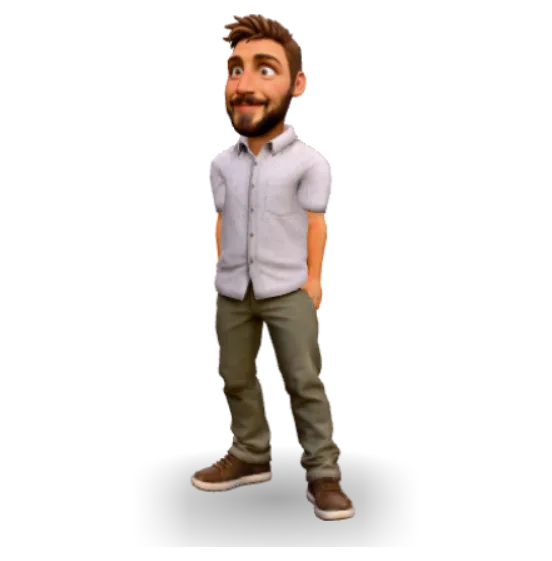
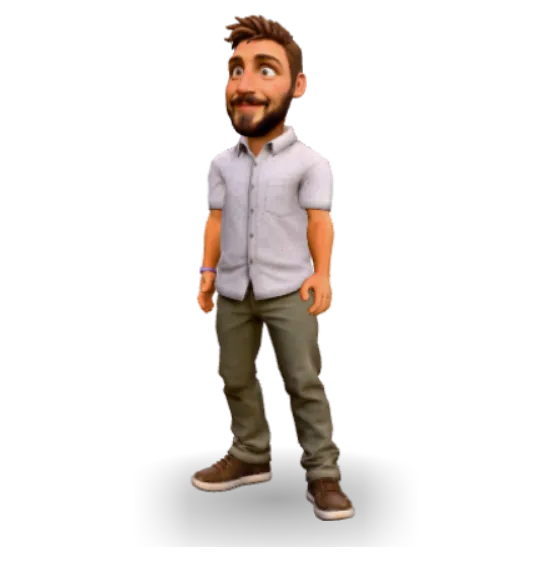
Line-up: along the line, then out, then a wave; Jack's arms out
A picked character walks along the line to the middle first and only then
steps out toward us (and steps back into the line before walking along
it), then waves if they have a wave. Jack wears Colin's clips, whose wider
shoulders hung his arms into his sides: `arms` lays a small pose fix
over every clip (upper arms out and forward, forearms take some back).

Claude-Session: https://claude.ai/code/session_01McRD2PT414eMdAMdSUCz7Q

diff --git a/site/app.js b/site/app.js
@@ -1,4 +1,4 @@
-import { SITE, SECTIONS, PLAY, ASSETS, SCRIPTS, TUTORIALS, SUPPORT, SOCIALS, WEB, STUDIOS, MOTION, WORKBENCH, WRITING, GUMROAD, SONGS, SFX, ABOUT, PRINTS } from './content.js?v=409c73f6';
+import { SITE, SECTIONS, PLAY, ASSETS, SCRIPTS, TUTORIALS, SUPPORT, SOCIALS, WEB, STUDIOS, MOTION, WORKBENCH, WRITING, GUMROAD, SONGS, SFX, ABOUT, PRINTS } from './content.js?v=7d66d254';
 import { onAccent, nextPreset, randomAccent, initTheme, setTheme, sectionColours } from './palette.js?v=7fa72879';
 
 const BASE = window.BASE || '/';
@@ -155,8 +155,8 @@ function charPicker(root, { home = false } = {}) {
     if (grp && panel.previousElementSibling !== grp) grp.after(panel);   // their details open right under their game's row
     viewer?.destroy(); viewer = null;
     panel.innerHTML = it || !home ? charDetail(it) : ''; panel.classList.toggle('on', !!it);
-    if (it) import('./viewer.js?v=94587ef6').then(m => { if (CHARPICK.show === show && panel.querySelector('#char-viewer'))
-      viewer = m.mountViewer(panel.querySelector('#char-viewer'), { url: it.glb, prefer: it.prefer, anim: it.anim, borrow: it.borrow }); });
+    if (it) import('./viewer.js?v=4742e21a').then(m => { if (CHARPICK.show === show && panel.querySelector('#char-viewer'))
+      viewer = m.mountViewer(panel.querySelector('#char-viewer'), { url: it.glb, prefer: it.prefer, anim: it.anim, borrow: it.borrow, arms: it.arms }); });
     faces.forEach(b => b.classList.toggle('on', b.dataset.char === slug));
   };
   CHARPICK.show = show;
@@ -256,7 +256,7 @@ const PAGES = {
       const pr = PRINTS.find(x => x.slug === slug);
       if (pr) {
         const ch = pr.char && ASSETS.find(x => x.slug === pr.char);
-        after = () => import('./viewer.js?v=94587ef6').then(m => { mounted = m.mountViewer($('#viewer'), { url: pr.glb, print: pr }); });
+        after = () => import('./viewer.js?v=4742e21a').then(m => { mounted = m.mountViewer($('#viewer'), { url: pr.glb, print: pr }); });
         return `<div class="wrap">${crumbs(link('characters', 'Characters'), esc(pr.title))}
           <h2 class="title">${esc(pr.title)}</h2>
           <p class="lede">3D-print statue. ${esc(pr.blurb)}${ch ? ` The game version is ${link('characters/' + ch.slug, esc(ch.title))}.` : ''}</p>
@@ -266,8 +266,8 @@ const PAGES = {
       const it = ASSETS.find(x => x.slug === slug);
       if (!it) return missing();
       const pr2 = PRINTS.find(x => x.char === it.slug);
-      after = () => import('./viewer.js?v=94587ef6').then(m => {
-        const a = m.mountViewer($('#viewer'), { url: it.glb, prefer: it.prefer, anim: it.anim, borrow: it.borrow });
+      after = () => import('./viewer.js?v=4742e21a').then(m => {
+        const a = m.mountViewer($('#viewer'), { url: it.glb, prefer: it.prefer, anim: it.anim, borrow: it.borrow, arms: it.arms });
         const b = pr2 && m.mountViewer($('#viewer-print'), { url: pr2.glb, print: pr2 });
         mounted = { destroy() { a.destroy(); b?.destroy(); } };
       });
@@ -613,8 +613,8 @@ function castSides() {
 const CASTWARM = { n: 0 };
 function warmCast(n = Infinity) {
   if (CASTWARM.n >= n) return; const from = CASTWARM.n; CASTWARM.n = n;
-  import('./lineup.js?v=ad6a0996').catch(() => {});
-  import('./rig.js?v=6f672394').then(({ prefetchGLB }) => {
+  import('./lineup.js?v=a8f06bab').catch(() => {});
+  import('./rig.js?v=e9487a7b').then(({ prefetchGLB }) => {
     for (const c of castSides().near.slice(from, n)) { prefetchGLB(c.glb).catch(() => {}); if (c.anim) prefetchGLB(c.anim).catch(() => {}); }
   }).catch(() => {});
 }
@@ -692,7 +692,7 @@ function backdrop(key) {
   WEAVE?.visible(!own || own === 'lineup');                         // the line-up stands in front of a dimmed weave
   WEAVE?.canvas.classList.toggle('dim', own === 'lineup');
   if (own === 'lineup' && !LINEUP && !lineupLoading && GLORB.ready)
-    lineupLoading = import('./lineup.js?v=ad6a0996').then(m => {
+    lineupLoading = import('./lineup.js?v=a8f06bab').then(m => {
       /* COLIN IN THE MIDDLE, and the cast dealt out from him in their order -- one to his right, one to
          his left, the next a step further out each side -- so the first ones listed (the originals, with
          their own animations) stand round him and the borrowed-animation crowd fills the ends */
@@ -1272,7 +1272,7 @@ if (wantIntro && !/[?&]walk=side/.test(location.search)) {
   addEventListener('scroll', () => { if (!document.getElementById('intro')) rise(0, 500); }, { passive: true });   // never strand him low
 }
 const intro = wantIntro
-  ? import('./intro.js?v=d1bca10d').then(m => m.playIntro({ build: BUILD, role: SITE.role, bg: css('--bg'), glorb: () => GLORB.api, dotK: GLORB_DOT }))
+  ? import('./intro.js?v=175536db').then(m => m.playIntro({ build: BUILD, role: SITE.role, bg: css('--bg'), glorb: () => GLORB.api, dotK: GLORB_DOT }))
       .catch(err => console.warn('intro', err))
       .finally(() => { const t = setInterval(() => { if (!document.getElementById('intro')) { clearInterval(t); setTimeout(() => rise(), 2500); } }, 400); })   // (if the handoff never comes, rise anyway, once the intro has gone)
   : Promise.resolve();
@@ -1292,5 +1292,5 @@ const ITEMS = [
   ...WRITING.map(w => ({ title: w.title, path: 'writing/' + w.slug })),
 ];
 if (!q.has('nocolin')) intro.then(() => new Promise(r => setTimeout(r, 900))).then(() =>
-  import('./colin.js?v=fef2126f').then(m => { colin = m.createMiniColin({ go, known: KNOWN, items: ITEMS, pageOf: () => '/' + route().join('/') }); colinWait.forEach(f => f(colin)); }))
+  import('./colin.js?v=2ee500f0').then(m => { colin = m.createMiniColin({ go, known: KNOWN, items: ITEMS, pageOf: () => '/' + route().join('/') }); colinWait.forEach(f => f(colin)); }))
   .catch(err => console.warn('mini colin unavailable', err));

diff --git a/site/lineup.js b/site/lineup.js
@@ -11,7 +11,7 @@
 //     each, and from where the camera stands nobody can tell;
 //   * it only renders while the Characters page is showing and on screen.
 import * as THREE from '../vendor/three.module.min.js';
-import { loadCharacter, skinnedBounds, pickClip, play } from './rig.js?v=6f672394';
+import { loadCharacter, skinnedBounds, pickClip, play } from './rig.js?v=e9487a7b';
 
 // back: how far behind Colin the line stands (they read smaller, so more of them fit); forward: where the
 // picked one walks out to, in front of him
@@ -126,7 +126,7 @@ export function createLineup(host, chars, { onPick = () => {}, colin = null } = 
       if (S.dead) return;
       if (s.c.colin) { s.ghost = true; s.loaded = true; s.mixer = { update() {} }; stageLeft(s, 0); return; }
       try {
-        const ch = await loadCharacter(new URL('../' + s.c.glb, import.meta.url).href, null, { anim: s.c.anim && new URL('../' + s.c.anim, import.meta.url).href, borrow: s.c.borrow });
+        const ch = await loadCharacter(new URL('../' + s.c.glb, import.meta.url).href, null, { anim: s.c.anim && new URL('../' + s.c.anim, import.meta.url).href, borrow: s.c.borrow, arms: s.c.arms });
         if (s.c.colin) {                                           // Colin's own file: donor heads out, his face shape on
           const loose = []; let sk = 0; ch.model.traverse(o => { if (o.isSkinnedMesh) sk++; else if (o.isMesh) loose.push(o); });
           if (sk) loose.forEach(o => o.removeFromParent());
@@ -142,7 +142,8 @@ export function createLineup(host, chars, { onPick = () => {}, colin = null } = 
           run: has(/^run_fwd$|run_fwd|^running$|^run$|drunk_run_forward|standing_run_forward|run_forward/i),
           walk: has(/walk_fwd_neutral|^walk_fwd|^walking$|^walk$|standing_walk_forward|walk_forward/i) || has(/^(?!.*(back|left|right|strafe)).*walk/i),
           air: has(/floating|in_air|falling_idle|jump_going_up|air|fall/i),
-          land: has(/landing_soft|^landing$|landing|hard_landing/i) };
+          land: has(/landing_soft|^landing$|landing|hard_landing/i),
+          wave: has(/^waving$|wave|greet|salute/i) };
         // measured once the idle is FULLY in: the clip fades in over a quarter second, and at
         // 0.01s he is still in his bind pose -- which for Zorp sits 0.66 m lower than his idle,
         // so he was set on the floor by a pose he never stands in, and floated
@@ -180,8 +181,15 @@ export function createLineup(host, chars, { onPick = () => {}, colin = null } = 
     } else if (s.state === 'land') {
       s.landT -= dt; if (s.landT <= 0) s.state = 'idle';
     } else {
-      const dx = s.tx - s.x, dz = s.tz - s.z, d = Math.hypot(dx, dz);
+      /* ONE AXIS AT A TIME, so a step out reads as taking centre stage: someone called forward
+         walks along the line to the middle FIRST and only then steps out toward us; someone going
+         back steps back into the line first and then walks along it. (Both at once was a diagonal
+         that started out of the line before they had got anywhere near the middle.) */
+      let dx = s.tx - s.x, dz = s.tz - s.z;
+      if (Math.abs(dx) > 0.06 && Math.abs(dz) > 0.06) { if (dz > 0) dz = 0; else dx = 0; }
+      const d = Math.hypot(dx, dz);
       if (d > 0.06) {
+        s.waved = false; s.waveT = 0;
         if (s.state !== 'walk') { s.state = 'walk'; clip(s, 'walk'); }
         const v = Math.min(d * 3, d > 1.6 && s.clips.run ? 2.6 : 1.4);   // one pace for everyone, so the line moves as a line
         if (d > 1.6 && s.clips.run && s.cur !== s.clips.run) clip(s, 'run'); else if (d <= 1.6 && s.cur === s.clips.run) clip(s, 'walk');
@@ -189,6 +197,14 @@ export function createLineup(host, chars, { onPick = () => {}, colin = null } = 
         s.wantYaw = Math.atan2(dx, dz);
       } else {
         if (s.state !== 'idle') { s.state = 'idle'; clip(s, 'idle'); }
+        // ...and once out front, a wave: they have just taken centre stage
+        if (S.sel === s.c.slug && !s.waved && !s.ghost && s.state === 'idle') {
+          s.waved = true;
+          if (s.clips.wave) { s.cur = s.clips.wave; play(s.mixer, s.clips.wave, { once: true, fade: 0.25 }); s.waveT = s.clips.wave.duration * 0.92; }
+        }
+        // timed here rather than on the clip's 'finished' event, so a wave cut short by a walk cannot
+        // fire a late switch back to idle on top of the walk
+        if (s.waveT > 0 && (s.waveT -= dt) <= 0) clip(s, 'idle');
         s.wantYaw = s.rest;                                          // back to (nearly) facing us
       }
       let dy = (s.wantYaw ?? 0) - s.yaw; dy = Math.atan2(Math.sin(dy), Math.cos(dy));

diff --git a/site/rig.js b/site/rig.js
@@ -96,8 +96,40 @@ function closeLoop(clip) {
 }
 
 /** Load a character. `onProgress(0..1)` when the server sends a length. `anim`: a file to borrow clips from. */
+/* ARMS OUT, for a body wearing another body's clips. Jack wears Colin's, and Colin's shoulders sit
+   further out than Jack's -- so the same arm rotations hang Jack's arms straight down and a little
+   behind him, into his own sides. `out` swings both upper arms away from the body (degrees, about
+   the body's own forward axis), `fwd` brings them forward (about its left-right axis), and the
+   forearms take back `bend` of the outward swing so the hands still come in toward the hips.
+   Everything is measured off the posed shoulders each frame -- no axis is assumed for the rig. */
+export function armsOut(model, { out = 0, fwd = 0, bend = 0.5 } = {}) {
+  const find = re => { let b = null; model.traverse(o => { if (!b && re.test(o.name)) b = o; }); return b; };
+  const L = find(/LeftArm$/), R = find(/RightArm$/), LF = find(/LeftForeArm$/), RF = find(/RightForeArm$/);
+  const bones = [L, R, LF, RF].filter(Boolean), saved = bones.map(b => b.quaternion.clone());
+  const pl = new THREE.Vector3(), pr = new THREE.Vector3(), left = new THREE.Vector3(), up = new THREE.Vector3(0, 1, 0), f = new THREE.Vector3();
+  const qa = new THREE.Quaternion(), qb = new THREE.Quaternion(), P = new THREE.Quaternion(), rot = new THREE.Quaternion();
+  const turn = (b, axis, deg, axis2, deg2) => {   // world rotation applied to a bone, written back in its parent's frame
+    b.parent.getWorldQuaternion(P);
+    rot.setFromAxisAngle(axis, deg * Math.PI / 180); if (axis2) rot.multiply(qb.setFromAxisAngle(axis2, deg2 * Math.PI / 180));
+    b.quaternion.premultiply(qa.copy(P).invert().multiply(rot).multiply(P));   // local' = P^-1 R P local
+  };
+  return {
+    apply() {
+      if (!L || !R) return;
+      bones.forEach((b, i) => saved[i].copy(b.quaternion));
+      model.updateMatrixWorld(true);
+      L.getWorldPosition(pl); R.getWorldPosition(pr); left.subVectors(pl, pr).normalize();
+      f.crossVectors(left, up).normalize();                  // the way he faces: left x up
+      turn(L, f, out, left, -fwd); turn(R, f, -out, left, -fwd);
+      model.updateMatrixWorld(true);
+      if (LF) turn(LF, f, -out * bend); if (RF) turn(RF, f, out * bend);
+    },
+    undo() { bones.forEach((b, i) => b.quaternion.copy(saved[i])); },
+  };
+}
+
 /** `borrow`: the exact clip names to take from `anim` (default: just an idle, a walk and a run) */
-export async function loadCharacter(url, onProgress, { anim = null, borrow = null } = {}) {
+export async function loadCharacter(url, onProgress, { anim = null, borrow = null, arms = null } = {}) {
   const g = await loadGLTF(url, onProgress);
   const model = g.scene;
   let tris = 0, joints = 0;
@@ -117,6 +149,10 @@ export async function loadCharacter(url, onProgress, { anim = null, borrow = nul
   if (anim && !clips.some(c => /idle/i.test(c.name))) clips = [...await borrowClips(model, anim, borrow).catch(() => []), ...clips];
   clips = clips.map(closeLoop);
   const mixer = new THREE.AnimationMixer(model);
+  if (arms) {   // a pose correction laid over every clip: taken off before the mixer runs, put back after
+    const fix = armsOut(model, arms), up = mixer.update.bind(mixer);
+    mixer.update = dt => { fix.undo(); up(dt); fix.apply(); return mixer; };
+  }
   return { model, clips, mixer, tris: Math.round(tris), joints };
 }
 

diff --git a/site/viewer.js b/site/viewer.js
@@ -3,7 +3,7 @@
 // That last part is the pitch -- a spec sheet you can check, not a claim.
 
 import * as THREE from '../vendor/three.module.min.js';
-import { loadCharacter, skinnedBounds, pickClip, play } from './rig.js?v=6f672394';
+import { loadCharacter, skinnedBounds, pickClip, play } from './rig.js?v=e9487a7b';
 
 function facing(model) {
   const toes = [], v = new THREE.Vector3(), w = new THREE.Vector3(), sum = new THREE.Vector3();
@@ -16,7 +16,7 @@ const pretty = n => n.replace(/[_.]+/g, ' ').replace(/\s+/g, ' ').trim();
 
 // `print` is a STATUE rather than a rig: an STL brought in as a bare mesh (no normals, no
 // material, no clips), so it gets smooth normals, a resin finish, and its size in millimetres.
-export function mountViewer(host, { url, prefer = [], anim = null, borrow = null, print = null }) {
+export function mountViewer(host, { url, prefer = [], anim = null, borrow = null, arms = null, print = null }) {
   host.innerHTML = `
     <div class="viewer-stage"><canvas></canvas>
       <div class="viewer-status">Loading…</div>
@@ -104,7 +104,7 @@ export function mountViewer(host, { url, prefer = [], anim = null, borrow = null
     renderer.dispose();
   }
 
-  loadCharacter(url, p => { status.textContent = `Loading… ${Math.round(p * 100)}%`; }, { anim, borrow }).then(c => {
+  loadCharacter(url, p => { status.textContent = `Loading… ${Math.round(p * 100)}%`; }, { anim, borrow, arms }).then(c => {
     if (dead) return;
     ch = c; turn.add(c.model);
     if (print) c.model.traverse(o => { if (!o.isMesh) return;

diff --git a/site/intro.js b/site/intro.js
@@ -36,7 +36,7 @@ export function playIntro({ build = '', role = '', bg = '#f3e4c6', rim = '#9a1cf
        head projected every frame, so an arm swing is what shoves them. */
     const me = { ok: false, on: false, cv: Object.assign(document.createElement('canvas'), { className: 'intro-me' }) };
     document.body.appendChild(me.cv);   // outside the intro: he keeps walking after it has faded
-    import('./intro-me.js?v=ce3a9fcf').then(m => m.mountMe(me.cv, { bg, mode: DEPTH ? 'depth' : 'side' })).then(api => { if (api) { me.api = api; me.ok = true; } }).catch(() => {});
+    import('./intro-me.js?v=5a0187e4').then(m => m.mountMe(me.cv, { bg, mode: DEPTH ? 'depth' : 'side' })).then(api => { if (api) { me.api = api; me.ok = true; } }).catch(() => {});
     document.body.appendChild(el);
     const cv = el.querySelector('canvas'), g = cv.getContext('2d'), g0 = g;
     /* Depth: a third of the dots are drawn on a layer ABOVE him, so he walks

diff --git a/site/content.js b/site/content.js
@@ -158,6 +158,7 @@ export const ASSETS = [
   // stripped copy of Colin (bones + clips, no mesh: models/assets/donors, from Zap 'n Clancy's `npm run donor`)
   { slug: 'jack', h: 1.78, title: 'Jack', from: "Zap 'n Clancy", glb: 'models/assets/jack.glb', anim: 'models/assets/donors/colin_anims.glb', mb: 0.3,
     borrow: ['idle_neutral', 'walk_fwd_neutral', 'run_fwd', 'walk_fwd_swagger', 'waving', 'idle_sad_kick', 'dance_moonwalk', 'dance_hiphop_01', 'dance_wiggle_feet', 'jump_going_up', 'landing_roll'],
+    arms: { out: 9, fwd: 6, bend: 0.4 },   // Colin's shoulders are wider: his clips hang Jack's arms into his sides
     tris: 12468, joints: 66, clips: 0, prefer: ['idle_neutral'], notes: ['Modelled on a friend', 'Wears Colin\'s animations, retargeted at load', 'Draco + WebP'] },
   // Plutopia
   { slug: 'zorp', h: 1.45, title: 'Zorp', from: 'Plutopia', also: ['Shredworld'], glb: 'models/assets/alien_orange.glb', mb: 2.3,

diff --git a/site/intro-me.js b/site/intro-me.js
@@ -4,7 +4,7 @@
 // particles can be shoved out of his way. When he has walked off the right he
 // takes his canvas with him.
 import * as THREE from '../vendor/three.module.min.js';
-import { loadCharacter, skinnedBounds, pickClip, play } from './rig.js?v=6f672394';
+import { loadCharacter, skinnedBounds, pickClip, play } from './rig.js?v=e9487a7b';
 
 export async function mountMe(cv, { bg = '#f3e4c6', mode = 'depth' } = {}) {
   const c = await loadCharacter(new URL('../models/colin.glb', import.meta.url).href);

diff --git a/lab/lab.js b/lab/lab.js
@@ -8,7 +8,7 @@
 import * as THREE from '../vendor/three.module.min.js';
 import { createSwarm } from '../site/swarm.js?v=a192b303';
 import { OBJECTS, fit, sampleSurface, sampleText, sampleSkinned } from '../site/shapes.js?v=aac1b012';
-import { loadCharacter, pickClip, play } from '../site/rig.js?v=6f672394';
+import { loadCharacter, pickClip, play } from '../site/rig.js?v=e9487a7b';
 import { onAccent, oklchHex } from '../site/palette.js?v=7fa72879';
 
 const SLIDES = [

diff --git a/site/colin.js b/site/colin.js
@@ -13,7 +13,7 @@
 // here, the page moves at once, and he talks about it while it does.
 
 import * as THREE from '../vendor/three.module.min.js';
-import { loadCharacter, skinnedBounds, pickClip, play } from './rig.js?v=6f672394';
+import { loadCharacter, skinnedBounds, pickClip, play } from './rig.js?v=e9487a7b';
 import { mouth, speakBuffer, hush, VISEME, JAW } from './speech.js?v=d7e94a3c';
 
 export const BRAIN = 'https://orb-brain.colinwillowtree.workers.dev';

diff --git a/index.html b/index.html
@@ -52,6 +52,6 @@
   <main id="view" tabindex="-1"></main>
 
   <noscript><p style="padding:2rem">This site needs JavaScript. The <a href="classic.html">previous portfolio</a> works without it.</p></noscript>
-  <script type="module" src="site/app.js?v=a58ad36e"></script>
+  <script type="module" src="site/app.js?v=f5043b14"></script>
 </body>
 </html>

diff --git a/lab/index.html b/lab/index.html
@@ -46,6 +46,6 @@
     <div class="dots" id="dots"></div>
     <div class="hint" id="hint">swipe · tap to enter</div>
   </div>
-  <script type="module" src="lab.js?v=304fc281"></script>
+  <script type="module" src="lab.js?v=ce79f6df"></script>
 </body>
 </html>
